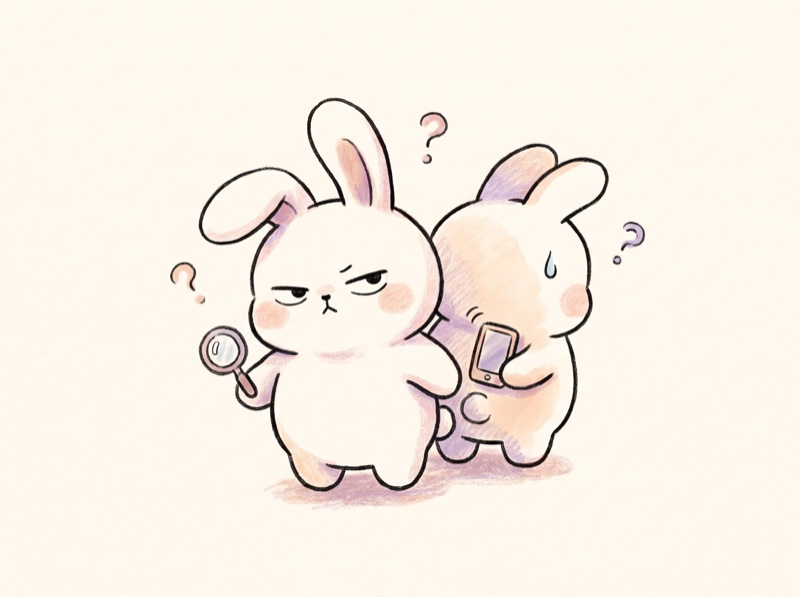
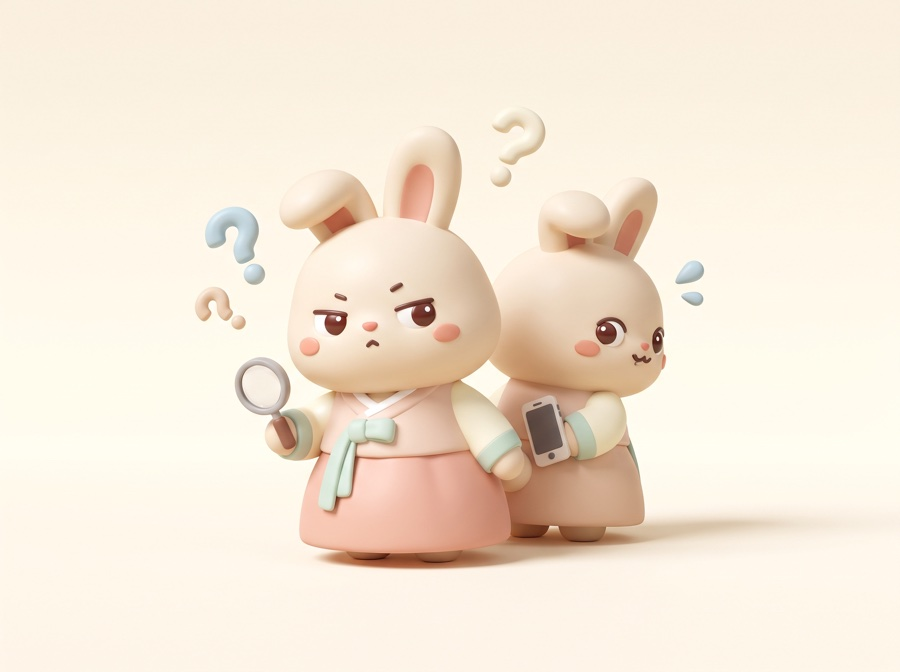
feat(홈): 고민·배너·총운 그림을 12지신 캐릭터 결로 맞추고 더 밝게
한 화면에 그림 문법이 셋이었다 — 12지신 3D 캐릭터(띠 표식·오늘의 운세),
상품 3D 렌더(cards-pastel), 그리고 어제 넣은 손그림(고민 카드). 셋 다 예쁜데
같이 놓으면 어느 것도 이 서비스의 얼굴로 안 읽힌다.

12지신 쪽으로 통일한다. 그쪽이 이미 열두 마리가 있어 가장 넓고, 띠라는
명리의 축에 붙어 있어 이 서비스에서 이유가 있는 그림이다.

## 고민 카드 여섯

손그림을 걷고 클레이 렌더로 다시 그렸다(public/worry/). 장면은 그대로다 —
폰을 들고 답장을 기다리고, 마주 앉았는데 사이가 비고, 소파에서 등을 돌린다.

## 배너와 총운

아이돌 배너의 이모지(🎤)를 캐릭터 그림으로 바꿨다. 12지신이 이미 있는데
이모지를 세우면 그 자리만 남의 그림이 된다.

그림은 흐름에서 빼 카드 오른쪽에 붙인다 — flex 칸으로 두면 그림이 글을 밀어
두 줄이 세 줄이 된다. 왼쪽 가장자리는 mask 로 풀어 이음매를 없앴다.
multiply 는 걷었다: 분홍 바탕에 곱하면 캐릭터가 탁해진다.

신년·하반기 카드에도 그림을 얹었다. 신년은 달력과 해, 하반기는 단풍 — 글을
안 읽어도 어느 철의 이야기인지 보인다.

## 밝기

고민 섹션이 크림 단색이라 흰 카드와 붙어 한 덩어리로 보였다. 위에서 아래로
아주 옅게 풀고 테두리를 한 겹 둘러, 카드가 그 위에 떠 보이게 했다.

## 종목 아이콘은 안 건드린다

9/8 에 캐릭터에서 선 아이콘으로 바꾼 자리다. 이유가 그대로 유효하다 — 종목
여섯에 얼굴 여섯이 서면 한 화면에 캐릭터가 여덟이 되고, 흔해지면 대표
캐릭터의 무게가 같이 떨어진다. 얼굴은 크게 세우는 자리에만 둔다.

Claude-Session: https://claude.ai/code/session_01FkTdesWQCcNopei5pDR5P3

Changed region(s): [[0.2188, 0.1508, 0.9062, 0.8744], [0.1875, 0.4221, 0.2812, 0.5126], [0.4062, 0.1508, 0.4375, 0.1809]]

diff --git a/src/app/globals.css b/src/app/globals.css
@@ -12281,7 +12281,7 @@ input[type="radio"] {
   background: linear-gradient(120deg, #f6e7ee 0%, #f2e2ea 55%, #eddfe8 100%);
   color: #3a2430;
 }
-.home-idol-copy { position: relative; z-index: 1; display: grid; gap: 4px; flex: 1; min-width: 0; }
+.home-idol-copy { position: relative; z-index: 1; display: grid; gap: 4px; flex: 1; min-width: 0; padding-right: 72px; }
 .home-idol-card strong {
   font-size: 1.1rem;
   font-weight: 800;
@@ -12295,7 +12295,23 @@ input[type="radio"] {
   font-weight: 800;
   color: #b03a63;
 }
-.home-idol-art { font-size: 2.4rem; flex: none; position: relative; z-index: 1; }
+/* 캐릭터 그림 (2026-09-09). 이모지를 걷었다 — 12지신 캐릭터가 이미 있는데
+   이모지를 세우면 그 자리만 남의 그림이 된다. */
+.home-idol-art {
+  /* 흐름에서 빼고 카드 오른쪽 끝에 붙인다 — 글이 폭을 다 쓰고, 그림은 그
+     위에 얹힌다. flex 칸으로 두면 그림이 글을 밀어 두 줄이 세 줄이 된다. */
+  position: absolute;
+  right: -6px;
+  bottom: -8px;
+  z-index: 0;
+  width: 168px;
+  aspect-ratio: 16 / 9;
+  object-fit: cover;
+  object-position: center center;
+  /* multiply 를 걷었다 — 분홍 바탕에 곱하면 캐릭터가 탁해진다. 대신 그림의
+     배경이 카드와 같은 계열이라 그대로 얹어도 이음매가 안 보인다. */
+  mask-image: linear-gradient(90deg, transparent 0%, #000 22%);
+}
 /* 딱지는 사주지도 카드의 것을 그대로 쓴다 (home-map-tags) — 분홍 바탕에서도
    읽히도록 색만 맞춘다. */
 .home-idol-card .home-map-tags b { background: #3a2430; color: #f8eef3; }
@@ -12317,6 +12333,14 @@ input[type="radio"] {
   background: var(--bg-card);
   color: var(--text);
   text-decoration: none;
+}
+.home-year-art {
+  width: 100%;
+  aspect-ratio: 4 / 3;
+  object-fit: contain;
+  border-radius: 12px;
+  background: #fdf8f1;
+  margin-bottom: 2px;
 }
 .home-year-badge {
   font-size: 0.68rem;
@@ -13467,10 +13491,13 @@ input[type="radio"] {
 .wp {
   margin: 26px 0 0;
   padding: 22px 0 18px;
-  background: var(--canvas-cream);
+  /* 더 밝게 (2026-09-09 운영자). 크림 단색은 카드(흰색)와 붙어 한 덩어리로
+     보였다 — 위에서 아래로 아주 옅게 풀면 카드가 그 위에 떠 보인다. */
+  background: linear-gradient(180deg, #fffdfa 0%, #fdf7ef 100%);
   color: var(--text);
   border-radius: 28px;
   margin-inline: 20px;
+  border: 1px solid #f2e9dc;
 }
 .wp-head { padding: 0 20px; }
 .wp-head small {
@@ -13490,7 +13517,7 @@ input[type="radio"] {
   margin: 12px 20px 16px;
   padding: 13px 15px;
   border-radius: 14px;
-  background: rgba(255, 255, 255, 0.66);
+  background: #fff8ee;
   font-size: 0.88rem;
   line-height: 1.55;
   color: #6d6157;
@@ -13522,14 +13549,14 @@ input[type="radio"] {
   border-radius: 14px;
   overflow: hidden;
   aspect-ratio: 4 / 3;
-  /* 손그림의 종이색과 같은 밑색 — 그림이 뜨기 전에도 결이 이어진다 */
+  /* 그림의 배경색과 같은 밑색 — 그림이 뜨기 전에도 결이 이어진다 */
   background: #fdf8f1;
 }
 .wp-card-art img {
   width: 100%;
   height: 100%;
-  /* contain 이다. 손그림은 여백까지가 그림이라 cover 로 자르면 캐릭터의
-     귀나 말풍선이 잘린다 — 상품 사진(cover)과 다른 점이다. */
+  /* contain 이다. 캐릭터 그림은 여백까지가 그림이라 cover 로 자르면 귀나
+     떠 있는 하트가 잘린다 — 상품 사진(cover)과 다른 점이다. */
   object-fit: contain;
 }
 .wp-card-q {

diff --git a/src/components/AppHome.tsx b/src/components/AppHome.tsx
@@ -213,7 +213,8 @@ export default function AppHome() {
                   <small>최애 생년월일만 알면 돼요. 두 명식이 만나는 자리를 봅니다.</small>
                   <span className="home-idol-cta">최애 궁합 보기 <i aria-hidden>›</i></span>
                 </span>
-                <span className="home-idol-art" aria-hidden>🎤</span>
+                {/* eslint-disable-next-line @next/next/no-img-element */}
+                <img className="home-idol-art" src="/home/idol.jpg" alt="" loading="lazy" />
               </Link>
             </div>
             <div className="home-slide-item">
@@ -277,11 +278,15 @@ export default function AppHome() {
         */}
         <div className="home-year-row">
           <Link href="/product/sinnyeon" className="home-year-card">
+            {/* eslint-disable-next-line @next/next/no-img-element */}
+            <img className="home-year-art" src="/home/sinnyeon.jpg" alt="" loading="lazy" />
             <span className="home-year-badge">신년운세</span>
             <strong>다가올 한 해,<br />나에게 어떤 해일까?</strong>
             <small>다음 해 세운이 만드는 한 해의 결</small>
           </Link>
           <Link href="/product/habangi" className="home-year-card">
+            {/* eslint-disable-next-line @next/next/no-img-element */}
+            <img className="home-year-art" src="/home/habangi.jpg" alt="" loading="lazy" />
             <span className="home-year-badge">하반기 운세</span>
             <strong>올해 남은 달,<br />어떻게 흘러갈까?</strong>
             <small>몇 월에 밀고 몇 월에 다질지</small>
